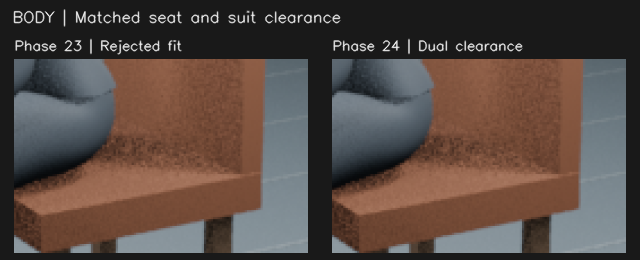
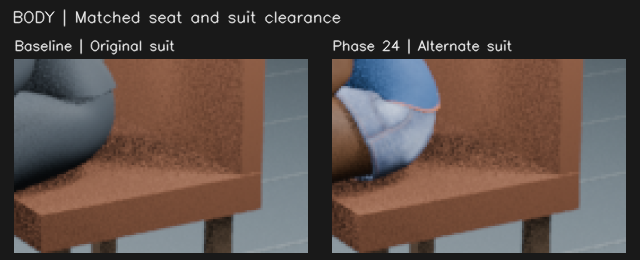
Publish approved development milestone report

Changed region(s): [[0.5, 0.1538, 0.8125, 0.7385], [0.0312, 0.1538, 0.2812, 0.2154], [0.0, 0.6769, 0.0938, 0.7385]]

diff --git a/reports/2026-11-26/PHASE24/MILESTONE_REPORT.md b/reports/2026-11-26/PHASE24/MILESTONE_REPORT.md
@@ -2,23 +2,23 @@
 
 ## Report metadata
 
-Phase 24 seated garment fit, 2026-11-26. PARTIAL. Source revision 1a3624d6a38e2261e981c3674beae1e92733daeb.
+Phase 24 seated garment fit, 2026-11-26. PARTIAL. Source revision 83c16b56d4b1faf951a2d8bd28f96d45065e85cb.
 
 ## Executive summary
 
-The first dual-clearance trial reduced seat penetration while detecting no body penetration on the moved patch. Residual chair collision and garment distortion failed static acceptance.
+Two alternate outfits improved chair clearance on the same seated pose. Both increased the estimated garment-to-body overlap. Static acceptance remains failed.
 
 ## Implemented features
 
-A bounded local garment fit checked each proposed displacement against the actor and chair.
+The same rig, chair and pose were used to bind and compare two alternative garments.
 
 ## Testing and verification
 
-Nine focused solver tests passed. Blender rendered and reopened the editable trial. Human approval is pending.
+Nine focused solver tests passed. Blender rendered and reopened both editable alternatives. Human approval is pending.
 
 ### Visual evidence
 
-Matched seat crops show two experimental garment fits. Visual inspection is separate from measured collisions.
+Matched seat crops show the original suit and the alternate with the best chair clearance.
 
 ![Matched seated garment fit comparison](images/body-comparison.png)
 
@@ -28,7 +28,7 @@ Static stills only. No new motion benchmark.
 
 ## Known problems
 
-Maximum sampled suit-to-chair depth fell from 3.47 cm to 2.95 cm. The most stretched measured edge in the adjusted region reached 1.95 times its original length. Seat support remains unqualified.
+Maximum sampled suit-to-chair depth fell from 3.47 cm to 2.95 cm. The most stretched measured edge in the adjusted region reached 1.95 times its original length. Seat support remains unqualified. The alternate outfits reduced chair penetration from 3.47 cm to 0.32 cm and 0.21 cm. The original suit measured 0.96 cm on the separate nearest-surface body proxy. The alternate outfits measured 1.90 cm and 1.45 cm on that proxy. This proxy is approximate on open body surfaces.
 
 ## Experimental integrations
 
@@ -44,7 +44,7 @@ NO-GO. The static garment trial failed. No motion was baked.
 
 ## Next priorities
 
-1. Test a different seated garment on the same pose.
+1. Refit the better alternate using simultaneous body and chair constraints.
 2. Verify seat support before baking motion.
 3. Inspect a matched sit and rise only after static acceptance.
 

diff --git a/status/CURRENT_STATUS.md b/status/CURRENT_STATUS.md
@@ -3,3 +3,5 @@
 Phase 24 began seated garment fitting. The first trial reduced chair penetration but failed clearance and strain checks. Production **NO-GO**.
 
 See the [Phase 24 session report](../reports/2026-11-26/PHASE24/MILESTONE_REPORT.md).
+
+Two alternate garments improved chair clearance but increased the estimated garment-to-body overlap. Production **NO-GO**.

diff --git a/reviews/OPEN_BLOCKERS.md b/reviews/OPEN_BLOCKERS.md
@@ -42,3 +42,5 @@ Preserve body clearance while resolving suit fit and broadening seated support.
 ## Phase 24
 
 Residual suit collision and local garment stretch block animation.
+
+The best alternate reduced chair penetration to 0.21 cm but increased the body-overlap proxy.

diff --git a/reviews/TEST_HISTORY.md b/reviews/TEST_HISTORY.md
@@ -54,3 +54,5 @@ Nine focused solver tests passed. Blender rendered and reopened the editable sta
 ## Phase 24
 
 Nine focused tests passed. Static Blender trial rendered and reopened.
+
+Nine focused tests passed. Both alternate garments rendered and reopened in Blender.

diff --git a/status/RELEASE_READINESS.md b/status/RELEASE_READINESS.md
@@ -50,3 +50,5 @@ NO-GO. Static support coverage and garment fit failed.
 ## Phase 24
 
 NO-GO. Chair clearance and garment deformation remain unresolved.
+
+NO-GO. Garment-to-body fit and seated support remain unresolved.

diff --git a/status/DEVELOPMENT_ROADMAP.md b/status/DEVELOPMENT_ROADMAP.md
@@ -62,3 +62,5 @@ Test seated garment fit with independent body and seat clearance constraints.
 ## Phase 24
 
 Test an alternative seated garment on the same pose.
+
+Refit the better alternate garment on the same pose.
